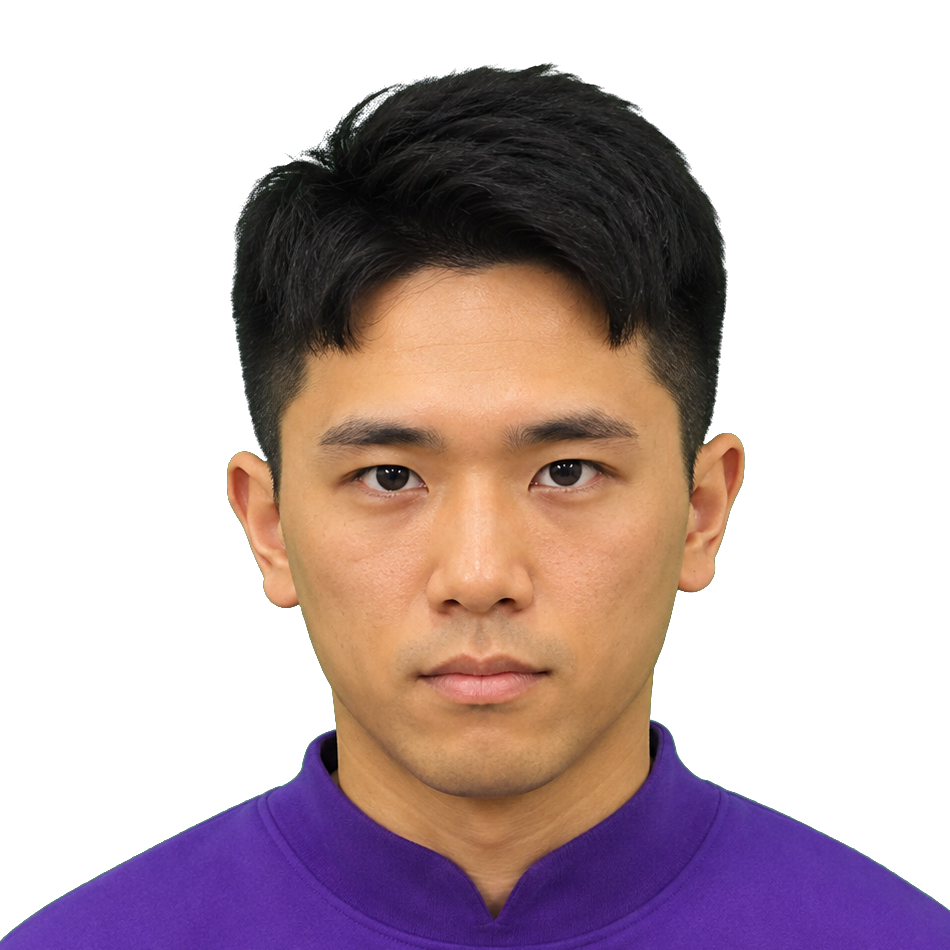
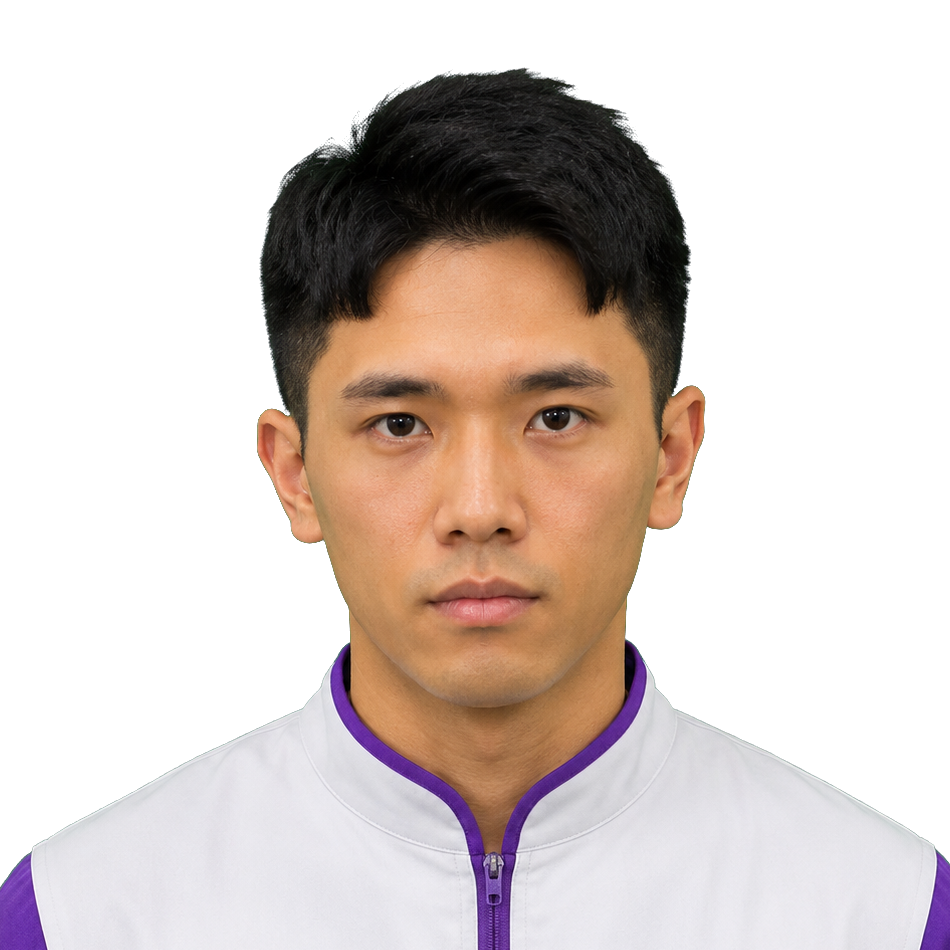
店員對話頭像換成配新制服的版本
上一版頭像穿的是舊的純紫色，制服換成白紫拼接後不一致。重新生一張配新
制服設計的特寫照，流程同前（綠幕→色度去背→裁 950×950 方形）。快取
版本 v1→v2。

diff --git a/prototypes/game.html b/prototypes/game.html
@@ -304,7 +304,7 @@ const WHO = {
    跟站在櫃台裡那張(遠景、3D 渲染)是兩張不同用途的圖,不用互相遷就。
    其他角色(玩家 pc、之後可能的 NPC)還沒有這種真人頭像,維持原本
    SF.person() 那套像素小人放大畫法,不要因為店員換了就跟著硬套。 */
-const clerkPortraitImg = new Image(); clerkPortraitImg.src = '../assets/bg/clerk-portrait.png';
+const clerkPortraitImg = new Image(); clerkPortraitImg.src = '../assets/bg/clerk-portrait.png?v=2';
 function drawPortrait(who){
   const w = WHO[who] || WHO.pc, S = portC.canvas.width;
   portC.clearRect(0,0,S,S); portC.fillStyle = '#1b202b'; portC.fillRect(0,0,S,S);
